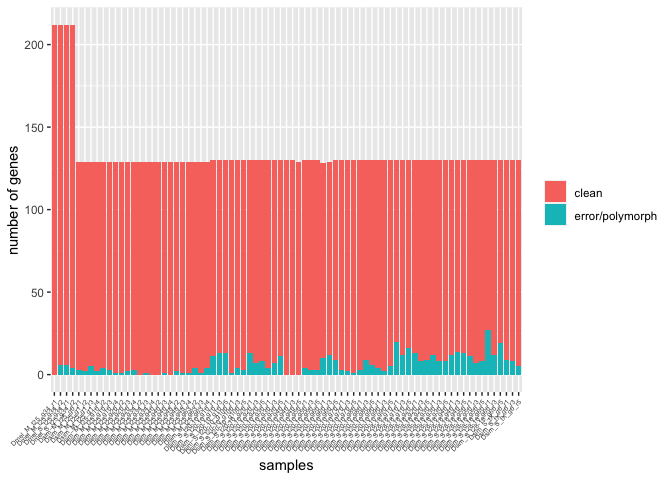
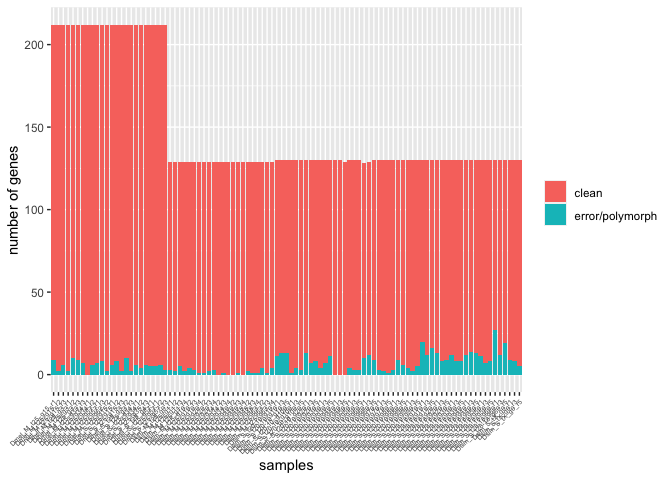
new samples added

Changed region(s): [[0.0, 0.0312, 0.7812, 0.9688]]

diff --git a/rmd-files/TE_abundance.md b/rmd-files/TE_abundance.md
@@ -12,6 +12,7 @@ nohup sh -c 'for i in Dsim_*;do n=${i%.fq.gz};bwa bwasw -t 10 /Volumes/Temp2/fil
 
 #analysis:
 cd /Volumes/Temp2/filip/2040A/map/TEs_3scg
+conda activate deviaTE_env
 for i in *bam;do ln -s /Volumes/Temp2/filip/2040A/map/TEs_3scg/${i} /Volumes/Temp2/filip/2040A/results/deviate/${i};done
 cd /Volumes/Temp2/filip/2040A/results/deviate
 for i in *bam;do samtools index $i;done
@@ -28,6 +29,8 @@ for i in *PPI251;do awk '$2=="insertions/haploid:"' $i|awk -v a="$i" '{print $3,
 library(ggplot2)
 
 t<-read.table("/Volumes/Temp2/filip/2040A/results/deviate/forR/PPI241-copynr.forR")
+t2<-read.table("/Volumes/Temp2/filip/2040A/results/deviate/batch2/forR/PPI251-copynr.forR")
+t<-rbind(t,t2)
 names(t)<-c("copies","species","variant","temperature","generation","replicate")
 t$type<-paste(t$temperature,t$variant,t$species,sep="_")
 
@@ -40,8 +43,8 @@ baho<-base
 baho$temperature<-c("t28-18")
 baho$type<-paste(baho$temperature,baho$variant,baho$species,sep="_")
 
-t<-subset(t,type!="t25_M_Dmel")
-t<-subset(t,type!="t25_S_Dmel")
+#t<-subset(t,type!="t25_M_Dmel")
+#t<-subset(t,type!="t25_S_Dmel")
 t<-subset(t,type!="tX_S_Dsim")
 
 t<-rbind(baco,baho,t)

diff --git a/rmd-files/testing_SNPs.md b/rmd-files/testing_SNPs.md
@@ -48,5 +48,5 @@ plot(g)
 ![](testing_SNPs_files/figure-gfm/unnamed-chunk-2-1.png)<!-- -->
 
 ``` r
-ggsave("/Volumes/Temp2/filip/2040A/results/diagnostic_SNPs/figures/SNPtest-count_overview.pdf",width=9,height=6)
+ggsave("/Volumes/Temp2/filip/2040A/results/diagnostic_SNPs/figures/SNPtest-count_overview.pdf",width=12,height=6)
 ```
